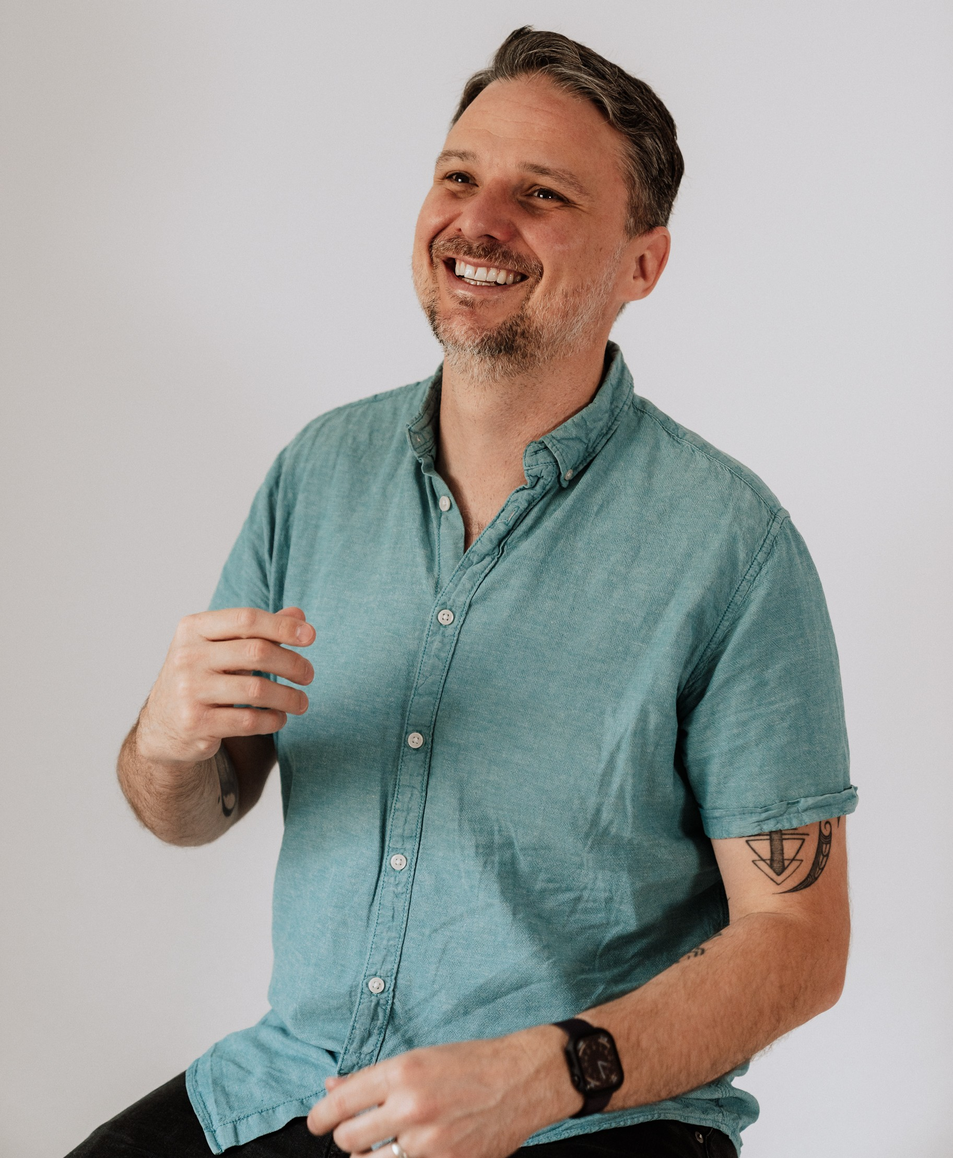
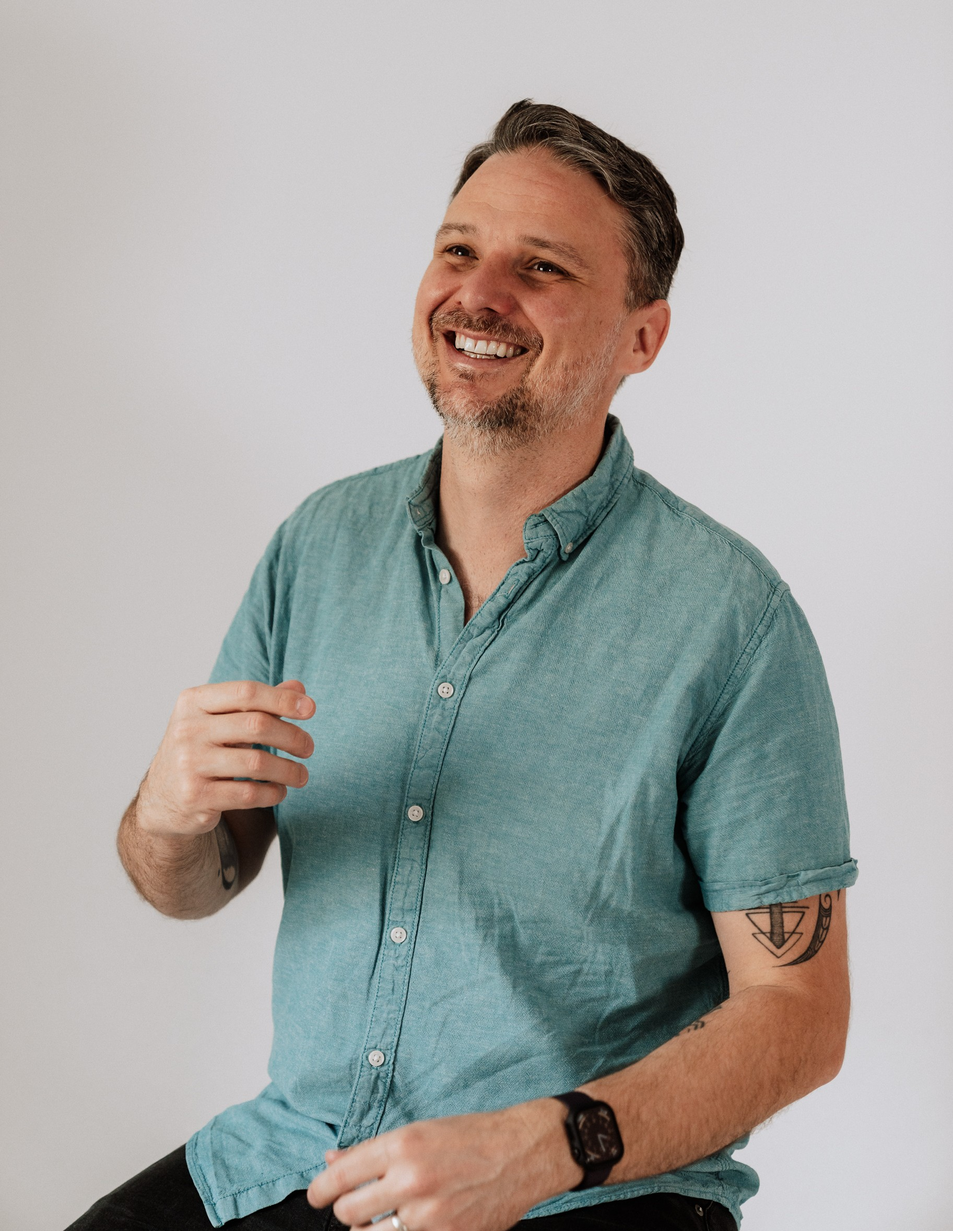
Re-crop hero images with more headroom, revert padding

Changed region(s): [[0.1249, 0.0, 0.9058, 0.9955], [0.8121, 0.8711, 0.8745, 0.9022], [0.8745, 0.8399, 0.9058, 0.8711]]

diff --git a/src/app/[locale]/about/page.tsx b/src/app/[locale]/about/page.tsx
@@ -148,7 +148,7 @@ export default async function AboutPage({ params }: { params: Promise<{ locale: 
               </p>
               <TextLink href={contactHref}>{c.hero.contact}</TextLink>
             </div>
-            <div className="flex justify-center md:justify-end md:pt-8">
+            <div className="flex justify-center md:justify-end">
               <img
                 src="/jono/jono-fox-principal-designer-aerospike.jpg"
                 alt="Jono Fox — Principal Product Designer at Aerospike, based in Germany"

diff --git a/src/app/[locale]/page.tsx b/src/app/[locale]/page.tsx
@@ -210,7 +210,7 @@ export default async function HomePage({ params }: { params: Promise<{ locale: s
           </div>
 
           {/* Portrait */}
-          <div className="animate-fade-up-1 relative flex justify-center md:justify-end md:pt-8">
+          <div className="animate-fade-up-1 relative flex justify-center md:justify-end">
             <img
               src="/jono/jono-fox-product-designer.jpg"
               alt="Jono Fox — Principal Product Designer specialising in developer tools and complex B2B products"

diff --git a/src/app/[locale]/contact/page.tsx b/src/app/[locale]/contact/page.tsx
@@ -63,7 +63,7 @@ export default async function ContactPage({ params }: { params: Promise<{ locale
           </div>
 
           {/* Right — portrait */}
-          <div className="flex justify-center md:justify-end md:pt-8">
+          <div className="flex justify-center md:justify-end">
             <img
               src="/jono/jono-fox-hire-product-designer.jpg"
               alt="Jono Fox — Principal Product Designer available for senior IC and design leadership roles"
